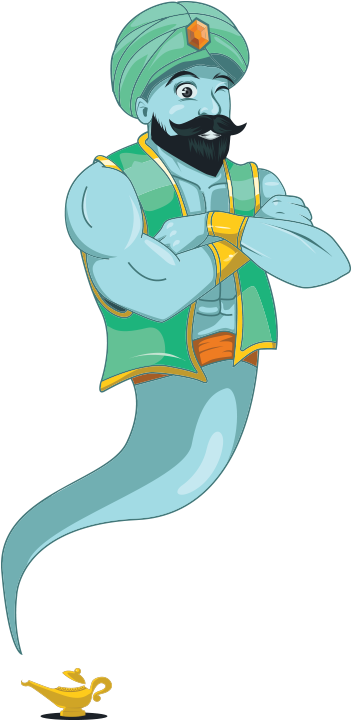
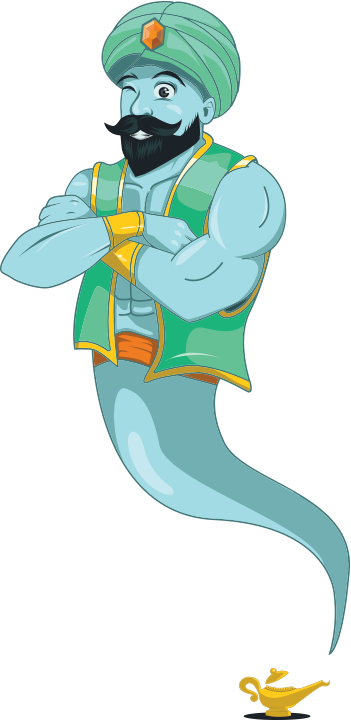
changes

diff --git a/src/app/page.tsx b/src/app/page.tsx
@@ -10,6 +10,7 @@ import {
 import { BookOpen, Edit, Sparkles, Users } from "lucide-react";
 import genie from "../../public/genie.png";
 import Image from "next/image";
+
 export default function HomePage() {
   return (
     <div className="flex flex-col min-h-screen">
@@ -25,34 +26,40 @@ export default function HomePage() {
                   <span className="md:hidden"><br /></span>
                   for Crafting <br />
                   Perfect{" "}
-                  <span className="text-primary  font-extrabold">
+                  <span className="text-primary font-extrabold">
                     Essays
                   </span>{" "}
                   and <span className="text-primary font-extrabold">Blogs</span>
                 </h1>
-                <p className="mx-auto max-w-[700px] text-gray-500 text-lg md:text-xl dark:text-gray-400  text-start md:text-center">
+                <p className="mx-auto max-w-[700px] text-gray-500 text-lg md:text-xl dark:text-gray-400 text-start md:text-center">
                   Speed up your writing process with AI-powered tools that
                   refine, edit, and enhance your work.
                 </p>
                 <div className="md:flex gap-4 w-full items-center justify-center mt-6 hidden">
-                <Button size='lg'>Get Started</Button>
-                <Button  size='lg' variant="outline">Learn More</Button>
-              </div>
+                  <Button size="lg">Get Started</Button>
+                  <Button size="lg" variant="outline">Learn More</Button>
+                </div>
               </div>
             </div>
-            <div className="flex items-center justify-center gap-4 ">
-              <Image
-                height={350}
-                src={genie}
-                alt="genie"
-                className="flip-horizontal f"
-              ></Image>
+            <div className="flex items-center justify-center gap-4">
+              <div className="genie-wrapper p-4">
+                <div className="shine-effect"></div>
+                <Image
+                  height={350}
+                  src={genie}
+                  alt="genie"
+                  className="floating genie-image"
+                  style={{ 
+                    mixBlendMode: 'overlay'
+                  }}
+                />
+              </div>
             </div>
           </div>
           <div className="flex gap-4 w-full items-center justify-center mt-10 md:hidden">
-                <Button size='lg'>Get Started</Button>
-                <Button  size='lg' variant="outline">Learn More</Button>
-              </div>
+            <Button size="lg">Get Started</Button>
+            <Button size="lg" variant="outline">Learn More</Button>
+          </div>
         </section>
       </main>
     </div>

diff --git a/src/app/globals.css b/src/app/globals.css
@@ -30,7 +30,7 @@ body {
   --radius: 0.5rem;
 }
 .dark  {
-  --background: 183 10% 10%;
+  --background: 224 71.4% 4.1%;
   --foreground: 183 0% 100%;
   --card: 183 0% 10%;
   --card-foreground: 183 0% 100%;
@@ -62,10 +62,58 @@ body {
   }
 }
 
-.flip-horizontal {
-  transform: scaleX(-1);
-}
 
 ::-webkit-scrollbar{
   width: 0px;
 }
+
+@keyframes glow {
+  0% {
+    filter: drop-shadow(0 0 15px rgba(59, 130, 246, 0.5));
+  }
+  50% {
+    filter: drop-shadow(0 0 30px rgba(59, 130, 246, 0.8));
+    
+  }
+  100% {
+    filter: drop-shadow(0 0 15px rgba(59, 130, 246, 0.5));
+  }
+}
+
+
+.genie-wrapper {
+  position: relative;
+  animation: glow  3s ease-in-out infinite;
+  overflow: hidden;
+}
+
+
+
+.genie-image {
+  position: relative;
+  z-index: 1;
+  mix-blend-mode: normal;
+}
+
+.floating {
+  animation: floating 3s ease-in-out infinite;
+}
+@keyframes floating {
+  0% {
+    transform: translateY(0px);
+    
+  }
+  50% {
+    transform: translateY(10px);
+  }
+  100% {
+    transform: translateY(0px);
+  }
+}
+
+@keyframes glow {
+  0% { filter: drop-shadow(0 0 15px rgba(59, 234, 246, 0.5)); }
+  50% { filter: drop-shadow(0 0 30px #3beaf6cc); }
+  100% { filter: drop-shadow(0 0 15px rgba(59, 218, 246, 0.5)); }
+}
+

diff --git a/src/components/website/Navbar.tsx b/src/components/website/Navbar.tsx
@@ -68,7 +68,7 @@ const Navbar: React.FC = () => {
 
           {/* Mobile Menu */}
           {isMenuOpen && (
-            <div className="md:hidden fixed top-0 left-0 w-full  shadow-md z-40  h-screen text-primary bg-primary-foreground  ">
+            <div className="md:hidden fixed top-0 left-0 w-full  shadow-md z-40  h-screen text-primary bg-background  ">
               <div className="flex justify-between border-b-2 border-primary p-4">
                 <div className="text-2xl font-bold flex items-center gap-2 hover:text-primary/80 transition-colors text-primary">
                   <WandSparkles /> WritinGenie
